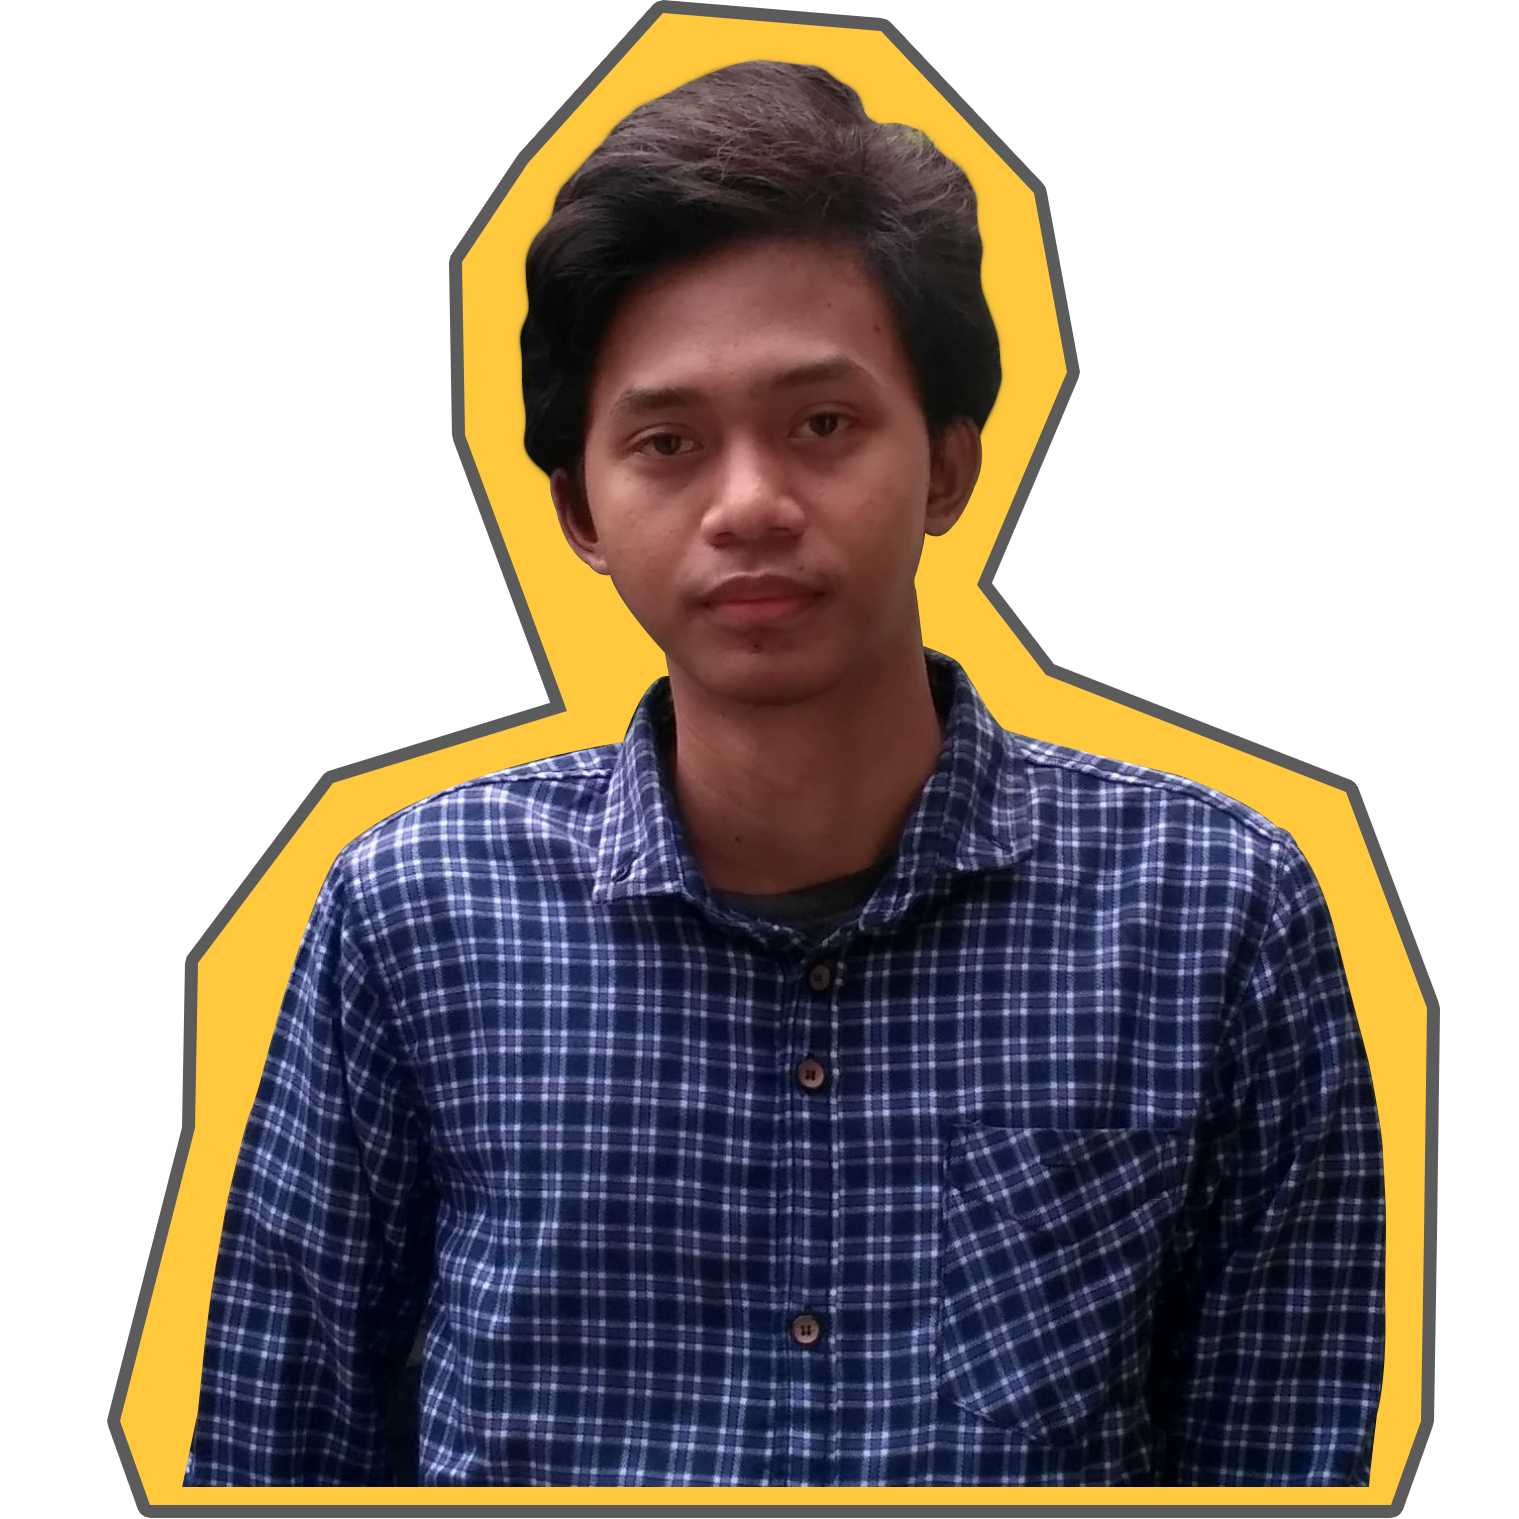
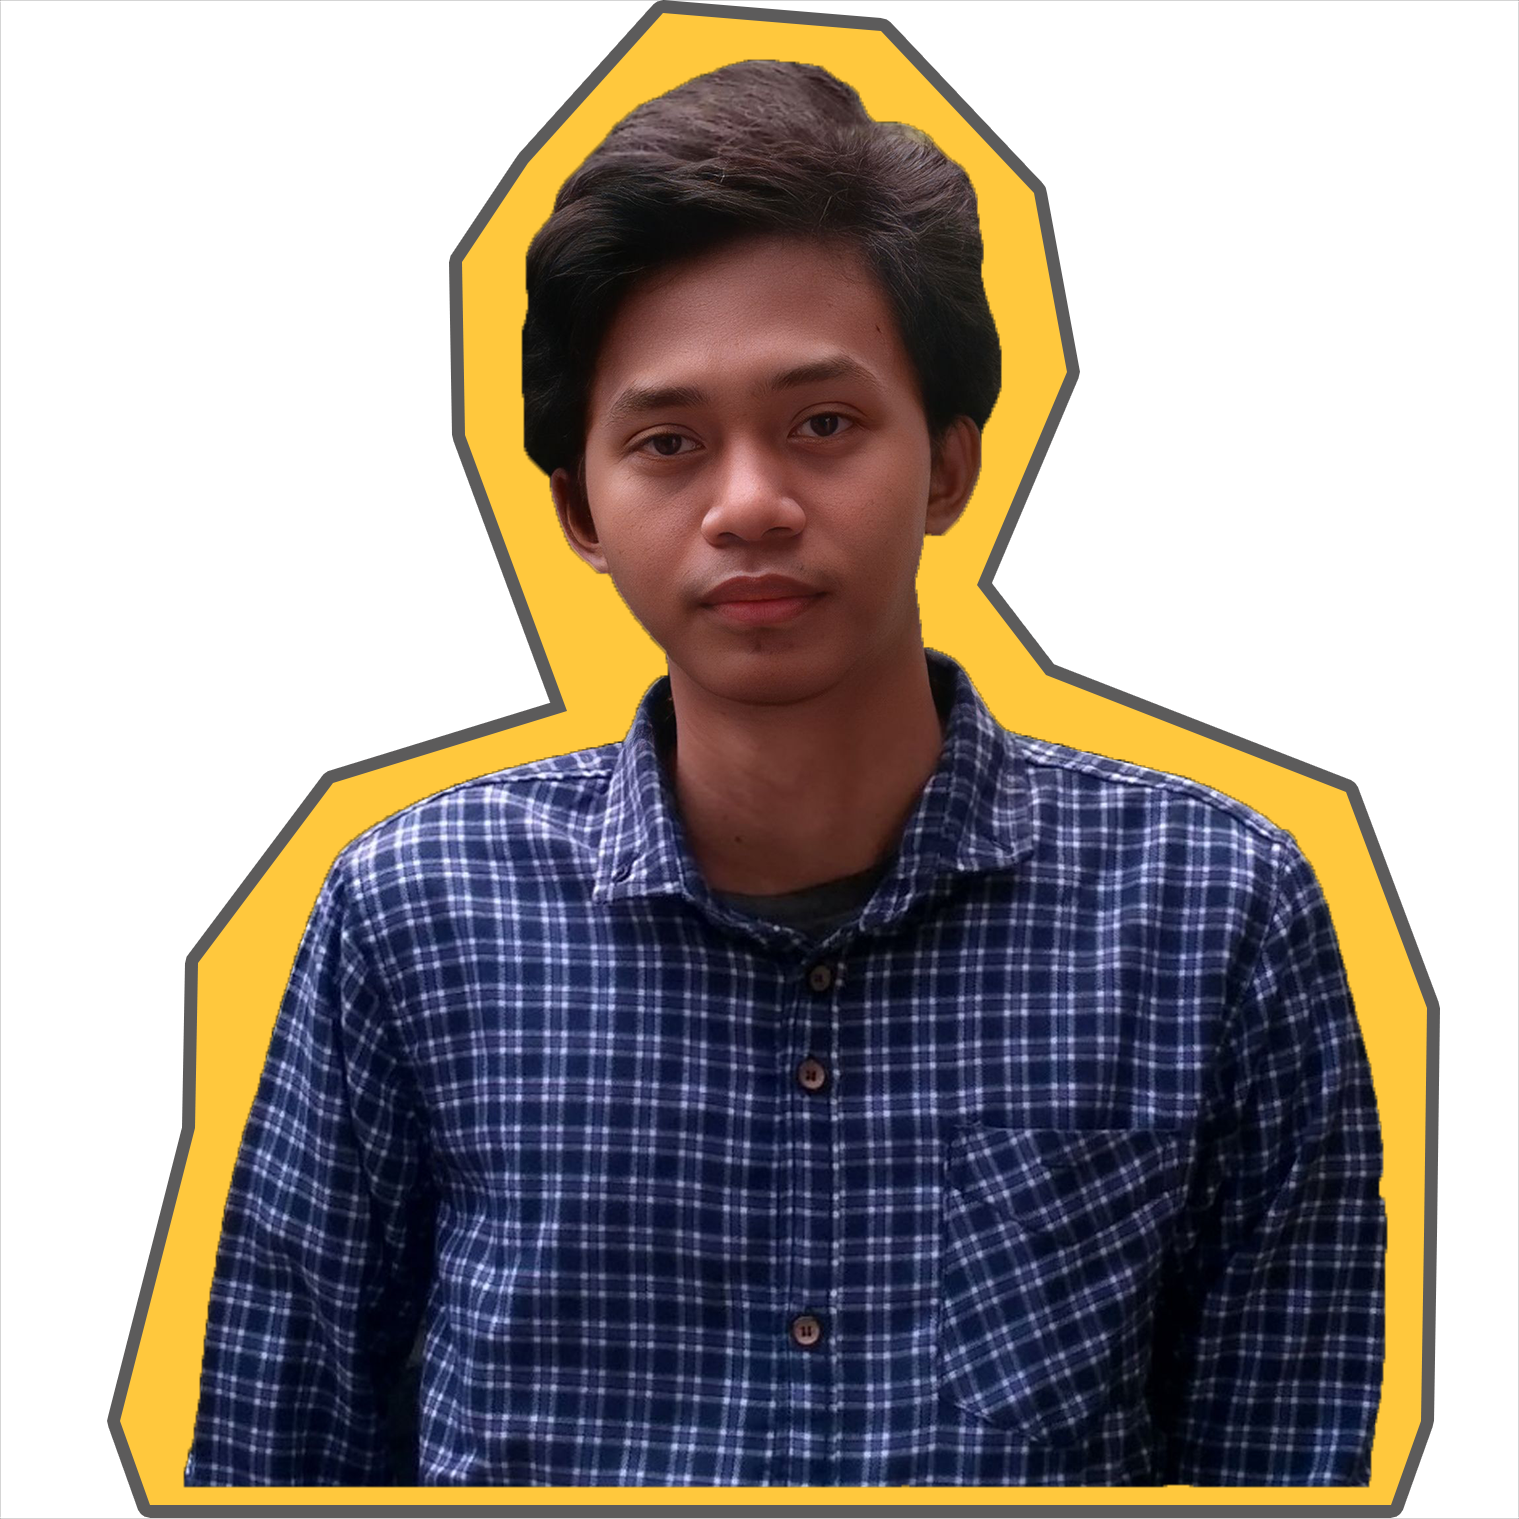
enhance photo, edit home layout

diff --git a/index.css b/index.css
@@ -140,17 +140,19 @@ main {
 #home {
     margin-top: 100px;
     display: flex;
-    flex-direction: row;
+    flex-direction:column;
     align-items: center;
 }
 
 .hello {
     width: fit-content;
+    font-size: 1.5rem;
     border-bottom: 2px dashed var(--gray);
     padding-bottom: 13px;
 }
 
 .summary {
+    font-size: 1rem;
     color: var(--gray-light);
     text-align: left;
     margin-bottom: 30px;
@@ -165,7 +167,10 @@ main {
 }
 
 .myphoto {
-    display: none;
+    display: block;
+    width: 270px;
+    margin-left: 3%;
+    margin-top: 30px;
 }
 
 /*=========================ABOUT============================= 
@@ -466,8 +471,12 @@ main {
         margin-right: 6vw;
     }
 
-    .summary {
-        font-size: 1.2rem;
+    #home {
+        flex-direction:row;
+    }
+
+    .myphoto{
+        margin-top: 0px;
     }
 
     .content-about {
@@ -516,12 +525,20 @@ main {
     .logo {
         margin-left: 10vw;
     }
+
     #navbar_menus {
         margin-right: 10vw;
     }
 
+    .hello {
+        font-size: 2rem;
+    }
+
+    .summary {
+        font-size: 1.2rem;
+    }
+
     .myphoto {
-        display: block;
         width: 360px;
         margin-left: 5%;
     }

diff --git a/index.html b/index.html
@@ -36,7 +36,7 @@
             <div id="home">
                 <div class="home-desc">
                     <div class="emoji">&#128075;</div>
-                    <h1 class="hello"><b>Hello, I'm Mochamad Galih Ramdhani</b></h1>
+                    <div class="hello"><b>Hello, I'm Mochamad Galih Ramdhani</b></div>
                     <p class="summary">I graduated from UIN Syarif Hidayatullah Jakarta majoring in Physics with a focus on Instrumentation Physics.
                         I have an understanding of hardware (computer and robot hardware) and software (Arduino, Python)
                         based on my experience in disassembling and designing hardware and also creating program algorithms.</p>
